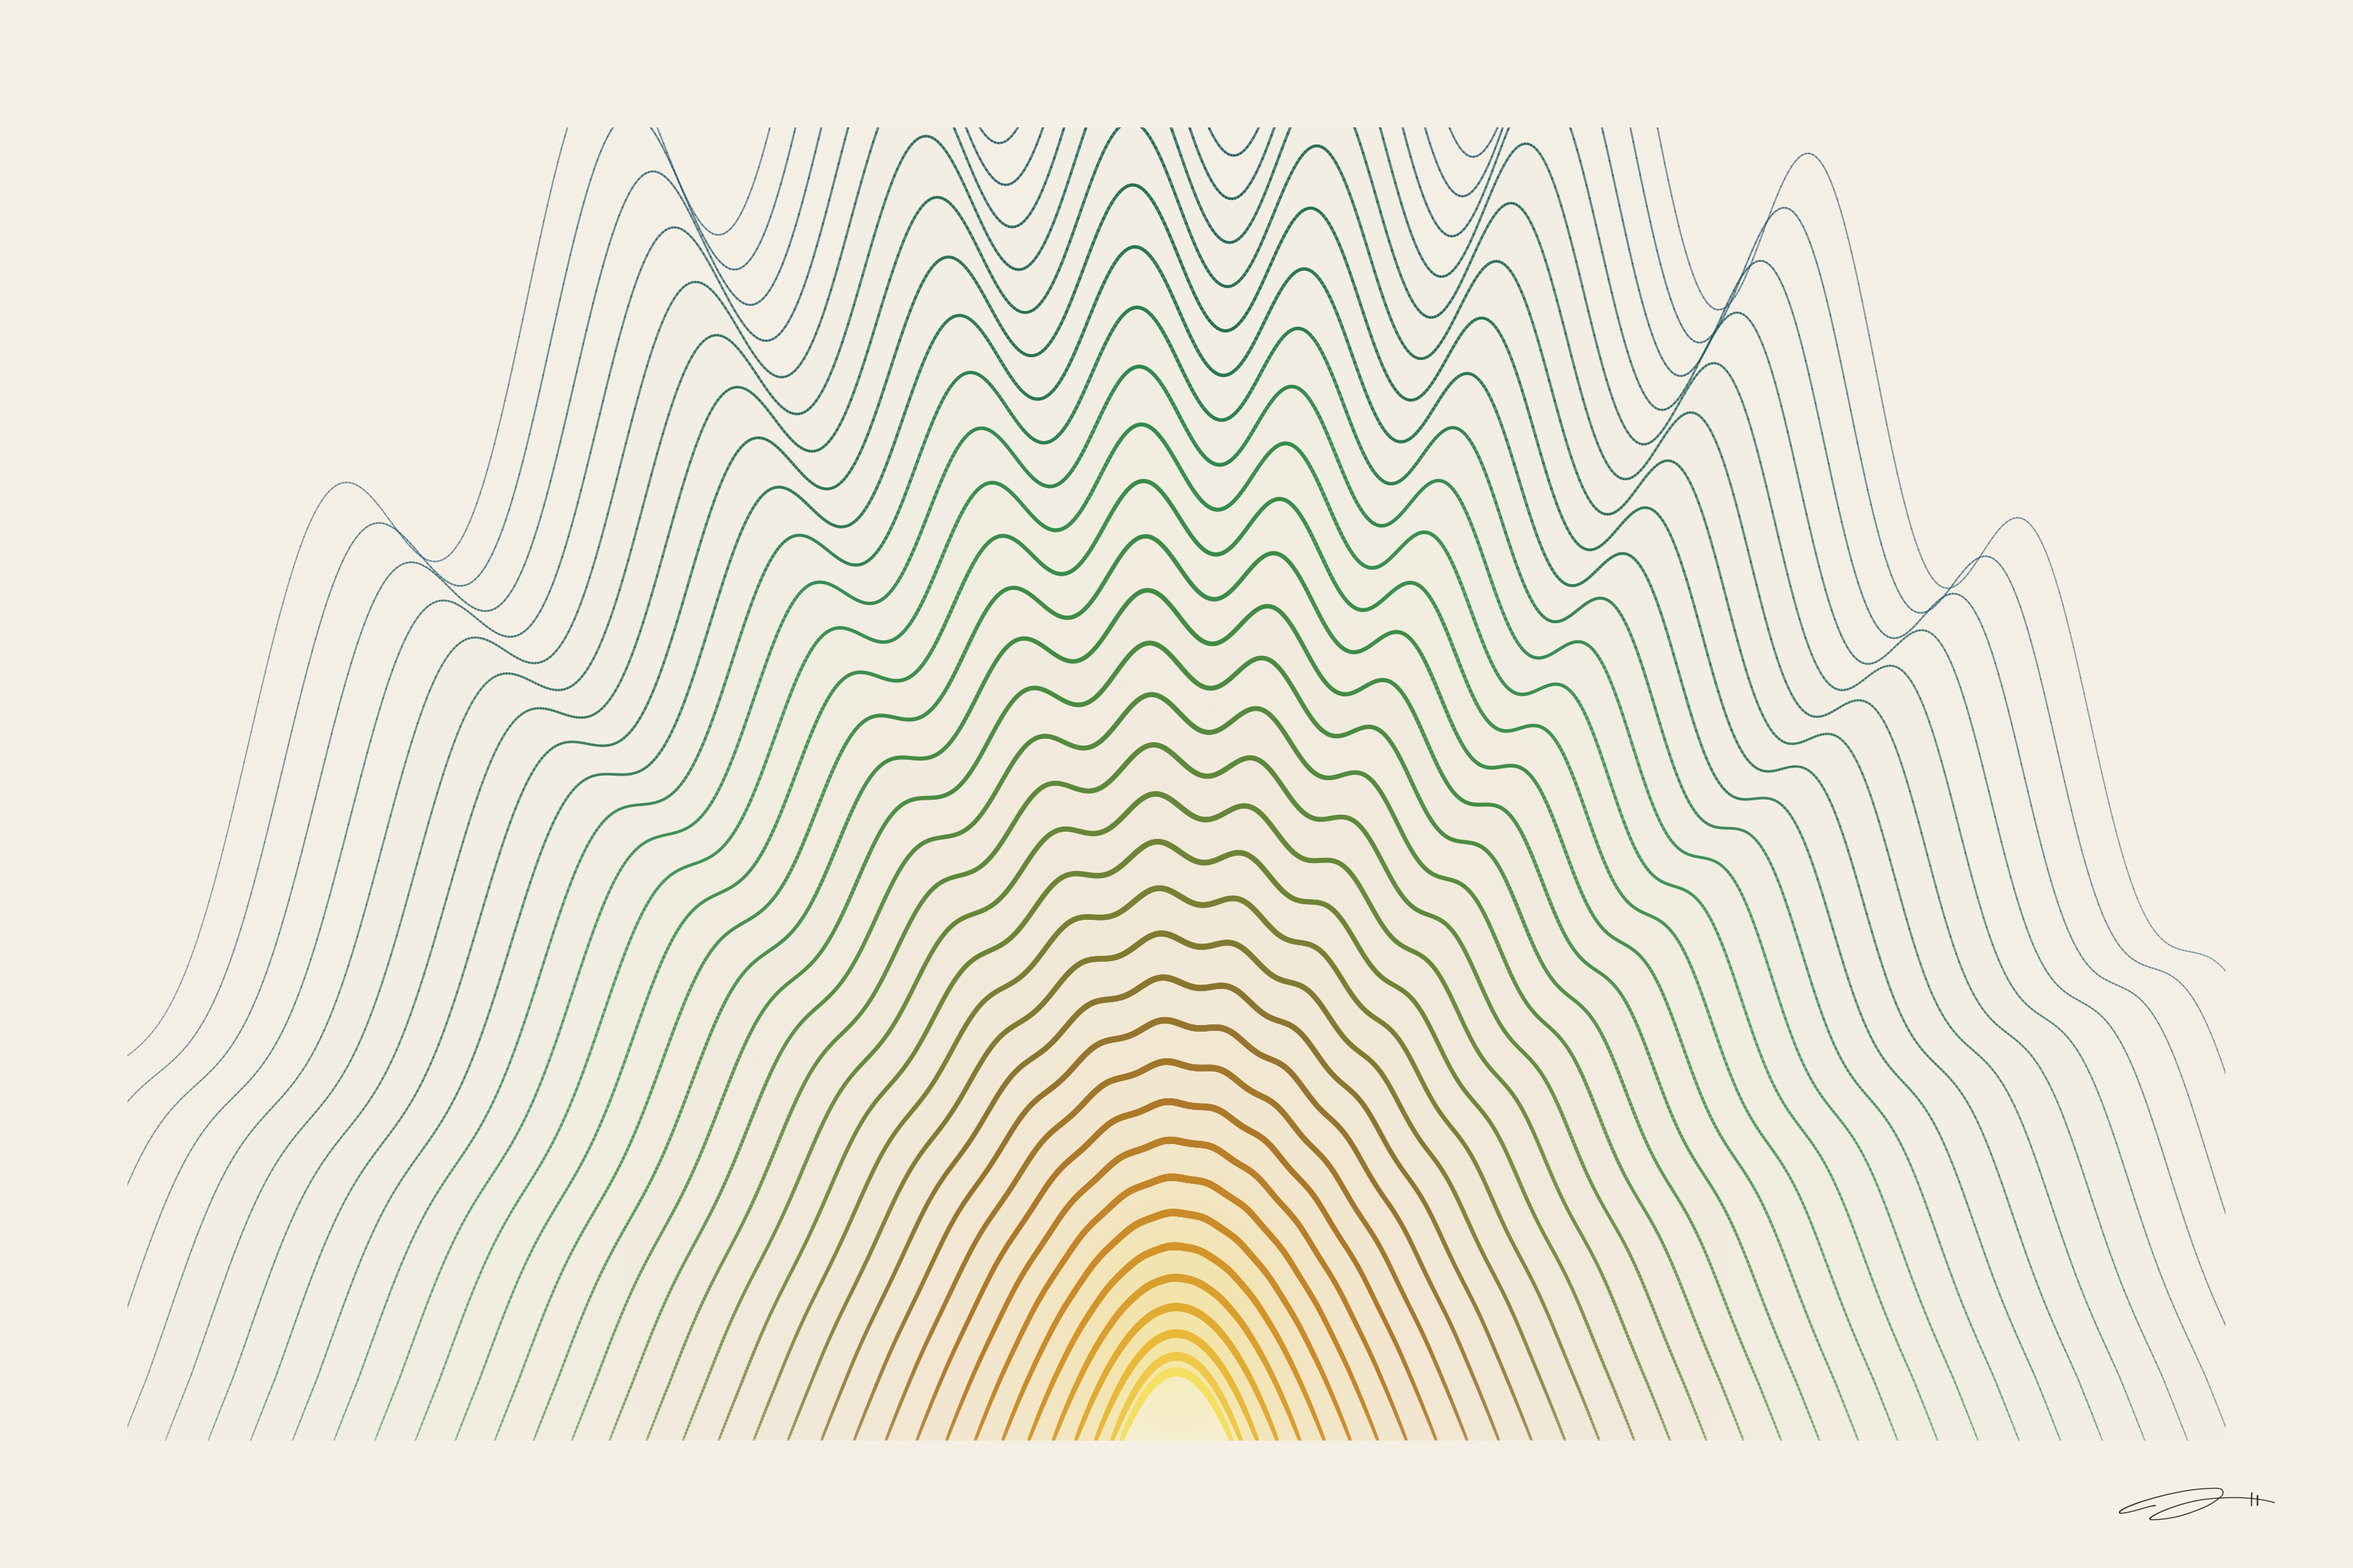
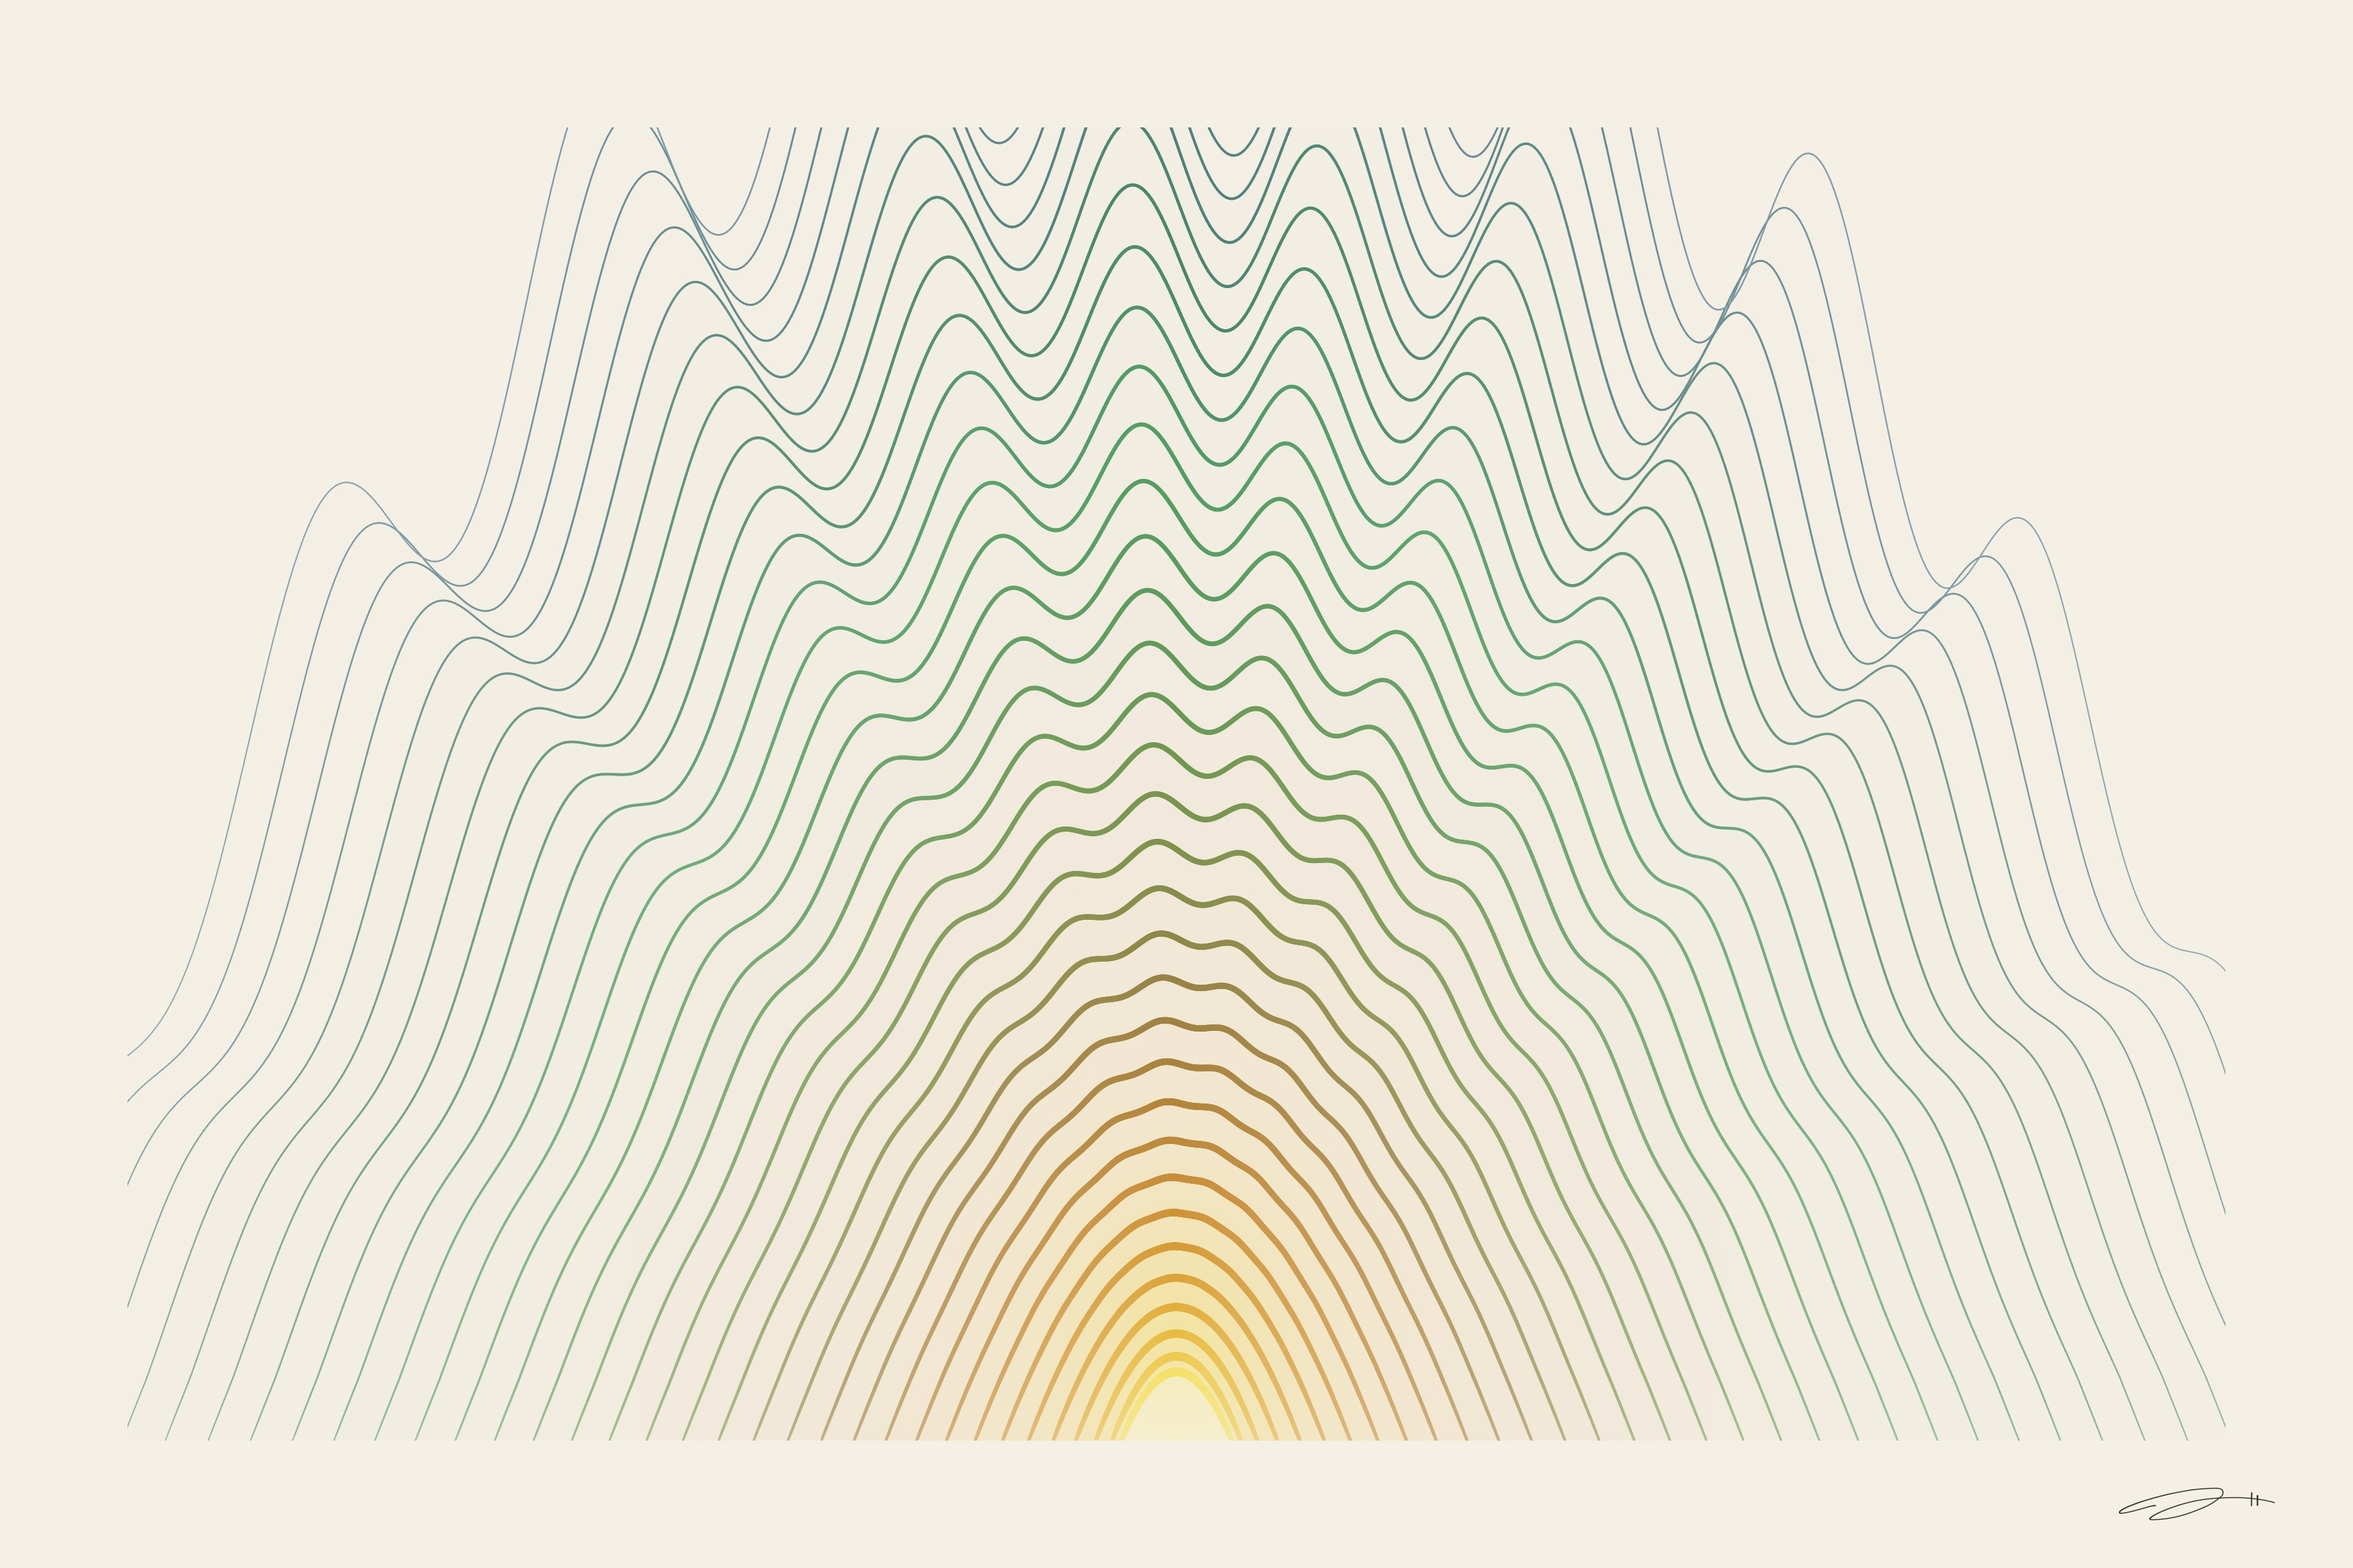
Fix Strata compositing dots — opaque blended line colors

Changed region(s): [[0.3422, 0.4688, 0.6533, 0.9062], [0.56, 0.4062, 0.5911, 0.4688]]

diff --git a/mathematical_affect/pieces/growth/growth_strata.py b/mathematical_affect/pieces/growth/growth_strata.py
@@ -71,9 +71,20 @@ def interp_color(pal, u):
     f = pos - i
     return tuple((1 - f) * rgbs[i] + f * rgbs[min(i + 1, len(rgbs) - 1)])
 
+BG_RGB = np.array(hex_to_rgb(BG_COLOR))
+
 def interp_rgba(pal, u, a):
+    """Return color with real alpha (for fill bands that need transparency)."""
     r, g, b = interp_color(pal, u)
     return (r, g, b, float(np.clip(a, 0, 1)))
+
+def interp_opaque(pal, u, a):
+    """Blend color with background — fully opaque, no compositing dots."""
+    r, g, b = interp_color(pal, u)
+    col = np.array([r, g, b])
+    a = float(np.clip(a, 0, 1))
+    blended = a * col + (1 - a) * BG_RGB
+    return (blended[0], blended[1], blended[2], 1.0)
 
 def lc_from_xy(xs, ys, colors, widths, zo=4):
     pts = np.array([xs, ys]).T.reshape(-1, 1, 2)
@@ -146,7 +157,7 @@ def draw_piece(ax, n, ox, oy, n_pts=700):
         for j in range(n_pts - 1):
             cu = frac ** 0.65
             al = base_alpha * (0.55 + 0.45 * apex[j])
-            seg_colors.append(interp_rgba(PALETTE, cu, al))
+            seg_colors.append(interp_opaque(PALETTE, cu, al))
             seg_widths.append(base_lw * (0.40 + 0.60 * apex[j]))
 
         lc = lc_from_xy(xs, ys, seg_colors, seg_widths)
